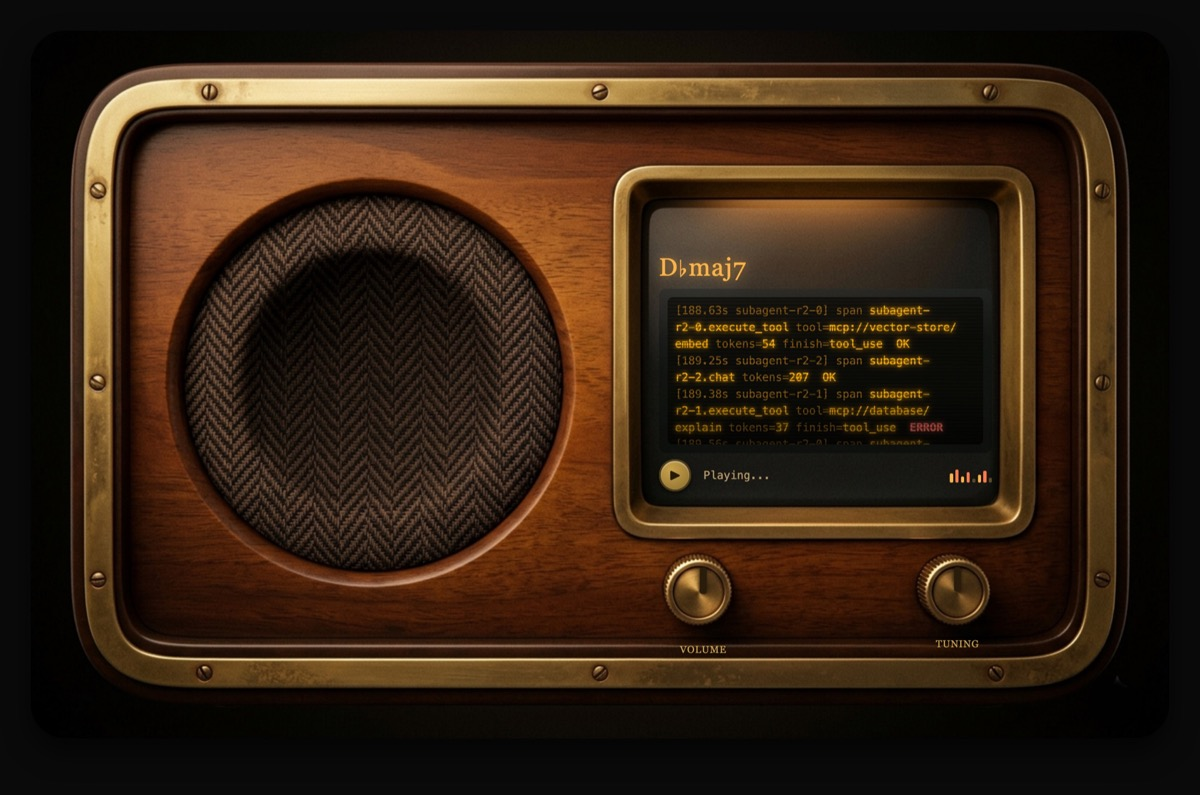
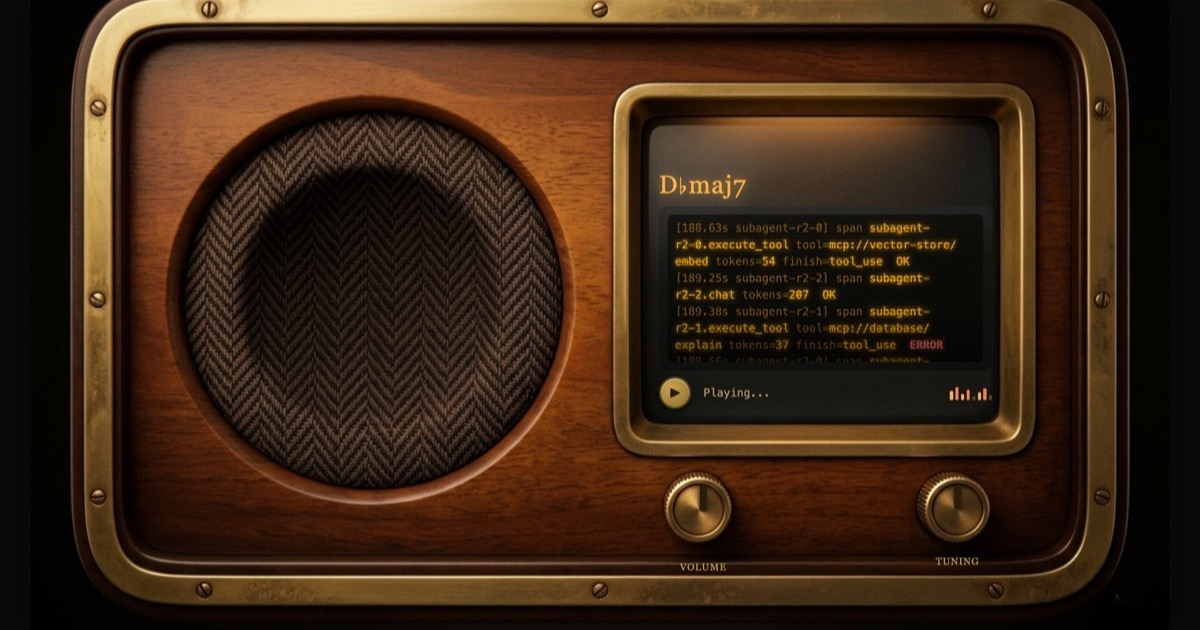
Update browser demo

diff --git a/web/demo.html b/web/demo.html
@@ -22,7 +22,7 @@
 <meta property="og:description" content="OpenTelemetry spans from a multi-agent AI system, rendered as a live jazz combo. You don't read the trace, you hear it go wrong.">
 <meta property="og:image" content="https://oteljazz.com/og.jpg">
 <meta property="og:image:width" content="1200">
-<meta property="og:image:height" content="795">
+<meta property="og:image:height" content="630">
 <meta property="og:image:alt" content="A 1940s tabletop radio whose dial is an amber terminal streaming live OpenTelemetry spans, above the chord readout D-flat major 7.">
 <meta name="twitter:card" content="summary_large_image">
 <meta name="twitter:title" content="OtelJazz -- an agent swarm, played as a jazz combo">
